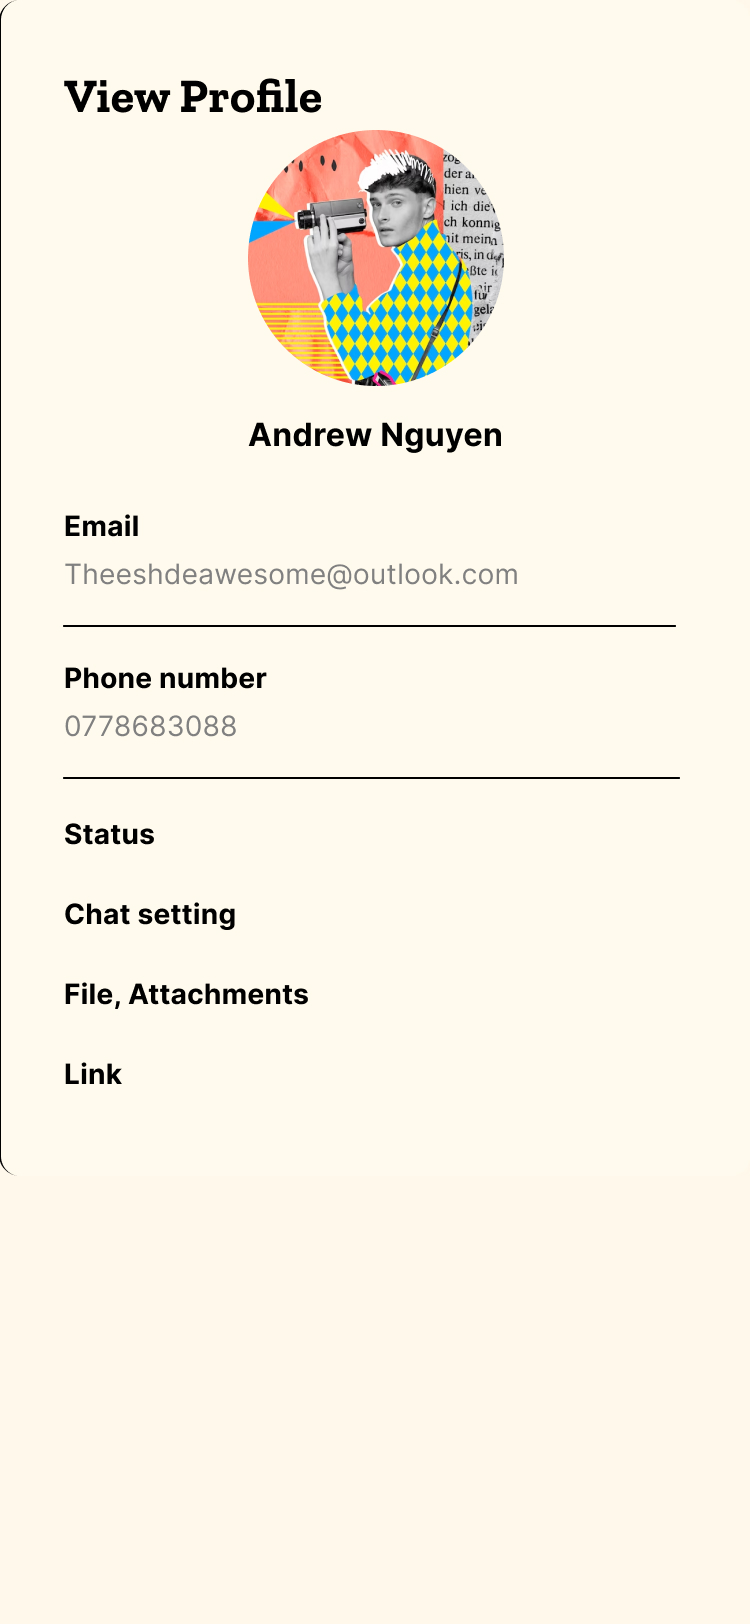
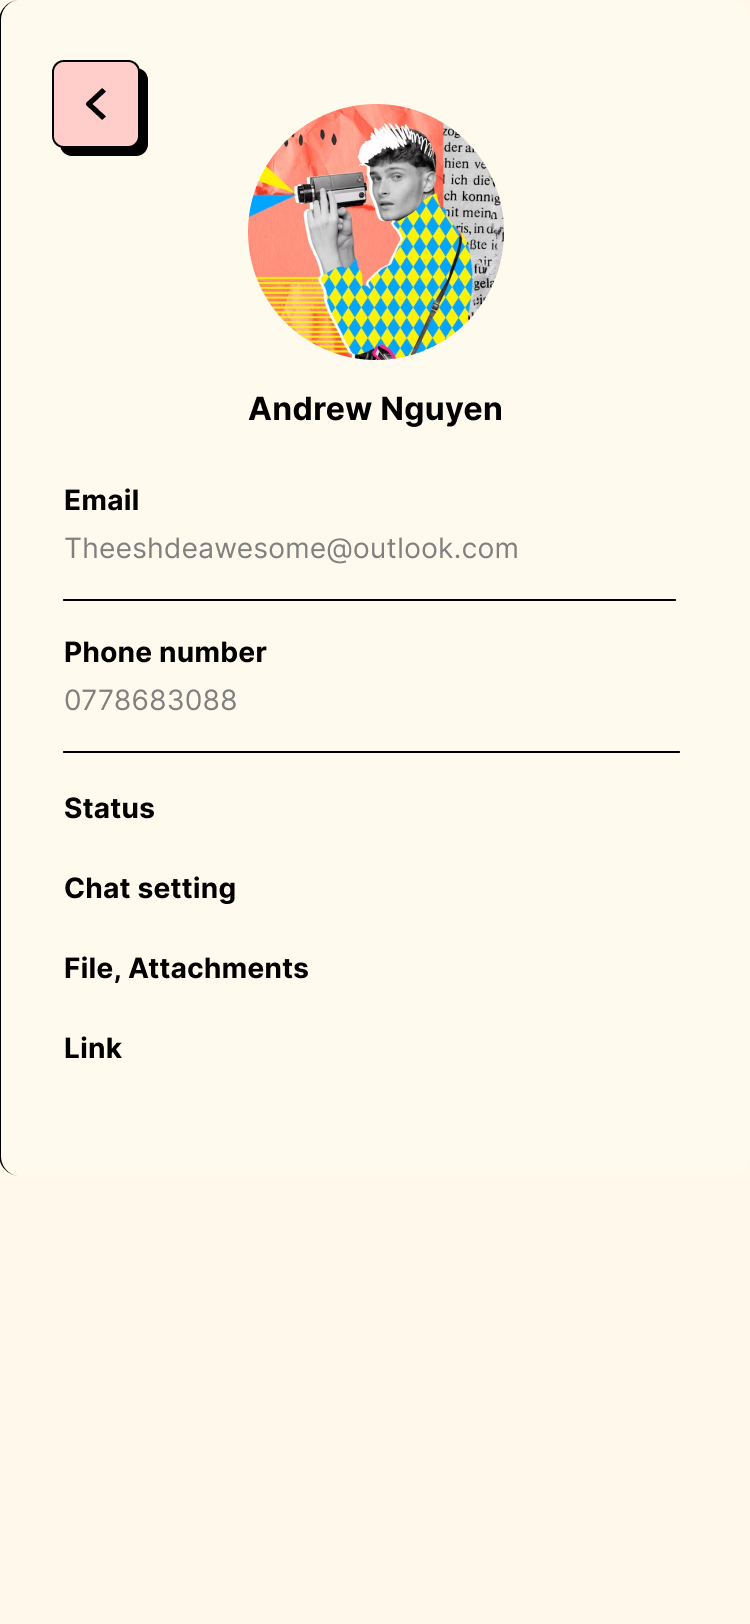
feat: add ProfileScreen and integrate into app routes; update plugin registrations for Firebase services

Changed region(s): [[0.0613, 0.2771, 0.7053, 0.6773], [0.2453, 0.0308, 0.6747, 0.2771], [0.0613, 0.0308, 0.2147, 0.1232]]

diff --git a/lib/features/profile/presentation/profile_screen.dart b/lib/features/profile/presentation/profile_screen.dart
@@ -1,0 +1,198 @@
+import 'package:flutter/material.dart';
+import 'package:chat_drop/core/theme/app_colors.dart';
+import 'package:chat_drop/core/theme/app_text_styles.dart';
+
+class ProfileScreen extends StatelessWidget {
+  const ProfileScreen({super.key});
+
+  @override
+  Widget build(BuildContext context) {
+    return Scaffold(
+      backgroundColor: AppColors.background,
+      appBar: AppBar(
+        backgroundColor: AppColors.background,
+        elevation: 0,
+        leading: IconButton(
+          icon: Container(
+            padding: const EdgeInsets.all(8),
+            decoration: BoxDecoration(
+              color: AppColors.primaryYellow,
+              borderRadius: BorderRadius.circular(8),
+              border: Border.all(color: AppColors.border, width: 2),
+            ),
+            child: const Icon(
+              Icons.arrow_back,
+              color: AppColors.textDark,
+              size: 20,
+            ),
+          ),
+          onPressed: () => Navigator.pop(context),
+        ),
+        title: const Text(
+          'View Profile',
+          style: TextStyle(
+            fontSize: 24,
+            fontWeight: FontWeight.bold,
+            color: AppColors.textDark,
+            fontFamily: "ZillaSlab",
+          ),
+        ),
+        centerTitle: false,
+      ),
+      body: SingleChildScrollView(
+        padding: const EdgeInsets.all(20),
+        child: Column(
+          children: [
+            const SizedBox(height: 20),
+
+            // Profile Picture
+            Container(
+              width: 160,
+              height: 160,
+              decoration: BoxDecoration(
+                color: AppColors.accentPink,
+                shape: BoxShape.circle,
+                border: Border.all(color: AppColors.border, width: 4),
+                boxShadow: [
+                  BoxShadow(
+                    color: AppColors.border,
+                    offset: const Offset(6, 6),
+                    blurRadius: 0,
+                    spreadRadius: 0,
+                  ),
+                ],
+              ),
+              child: ClipOval(
+                child: Container(
+                  decoration: const BoxDecoration(
+                    gradient: LinearGradient(
+                      colors: [
+                        Color(0xFFFF6B6B),
+                        Color(0xFFFFE66D),
+                        Color(0xFF4ECDC4),
+                        Color(0xFF45B7D1),
+                      ],
+                      begin: Alignment.topLeft,
+                      end: Alignment.bottomRight,
+                    ),
+                  ),
+                  child: const Center(
+                    child: Text('📷', style: TextStyle(fontSize: 60)),
+                  ),
+                ),
+              ),
+            ),
+
+            const SizedBox(height: 24),
+
+            // User Name
+            const Text(
+              'Andrew Nguyen',
+              style: TextStyle(
+                fontSize: 28,
+                fontWeight: FontWeight.bold,
+                color: AppColors.textDark,
+                fontFamily: "ZillaSlab",
+              ),
+            ),
+
+            const SizedBox(height: 40),
+
+            // Profile Information
+            _buildProfileSection('Email', 'Theeshdeawesome@outlook.com'),
+
+            _buildProfileSection('Phone number', '0778683088'),
+
+            _buildClickableSection('Status', ''),
+
+            _buildClickableSection('Chat setting', ''),
+
+            _buildClickableSection('File, Attachments', ''),
+
+            _buildClickableSection('Link', ''),
+          ],
+        ),
+      ),
+    );
+  }
+
+  Widget _buildProfileSection(String title, String value) {
+    return Container(
+      margin: const EdgeInsets.only(bottom: 32),
+      child: Column(
+        crossAxisAlignment: CrossAxisAlignment.start,
+        children: [
+          Text(
+            title,
+            style: const TextStyle(
+              fontSize: 18,
+              fontWeight: FontWeight.bold,
+              color: AppColors.textDark,
+              fontFamily: "ZillaSlab",
+            ),
+          ),
+          const SizedBox(height: 8),
+          if (value.isNotEmpty)
+            Text(
+              value,
+              style: const TextStyle(
+                fontSize: 16,
+                color: AppColors.textGrey,
+                fontFamily: "ZillaSlab",
+              ),
+            ),
+          const SizedBox(height: 12),
+          Container(height: 2, color: AppColors.border),
+        ],
+      ),
+    );
+  }
+
+  Widget _buildClickableSection(String title, String value) {
+    return Container(
+      margin: const EdgeInsets.only(bottom: 32),
+      child: InkWell(
+        onTap: () {
+          // Handle section tap
+          print('$title tapped');
+        },
+        child: Column(
+          crossAxisAlignment: CrossAxisAlignment.start,
+          children: [
+            Row(
+              mainAxisAlignment: MainAxisAlignment.spaceBetween,
+              children: [
+                Text(
+                  title,
+                  style: const TextStyle(
+                    fontSize: 18,
+                    fontWeight: FontWeight.bold,
+                    color: AppColors.textDark,
+                    fontFamily: "ZillaSlab",
+                  ),
+                ),
+                const Icon(
+                  Icons.chevron_right,
+                  color: AppColors.textGrey,
+                  size: 24,
+                ),
+              ],
+            ),
+            const SizedBox(height: 8),
+            if (value.isNotEmpty)
+              Text(
+                value,
+                style: const TextStyle(
+                  fontSize: 16,
+                  color: AppColors.textGrey,
+                  fontFamily: "ZillaSlab",
+                ),
+              ),
+            const SizedBox(height: 12),
+            Container(height: 2, color: AppColors.border),
+          ],
+        ),
+      ),
+    );
+  }
+}

diff --git a/lib/routes/app_routes.dart b/lib/routes/app_routes.dart
@@ -2,6 +2,7 @@ import 'package:chat_drop/features/auth/presentation/screens/qr_generator_screen
 import 'package:chat_drop/features/auth/presentation/screens/qr_scanner_screen.dart';
 import 'package:chat_drop/features/home/presentation/home_screen.dart';
 import 'package:chat_drop/features/chat/presentation/chat_screen.dart';
+import 'package:chat_drop/features/profile/presentation/profile_screen.dart';
 import 'package:flutter/material.dart';
 import 'package:flutter_riverpod/flutter_riverpod.dart';
 import 'package:go_router/go_router.dart';
@@ -57,6 +58,11 @@ final appRouterProvider = Provider<GoRouter>((ref) {
               state: state,
               child: const QrScannerScreen(),
             ),
+      ),
+      GoRoute(
+        path: '/profile', // Add profile route
+        name: 'profile',
+        builder: (context, state) => const ProfileScreen(),
       ),
     ],
   );

diff --git a/macos/Flutter/GeneratedPluginRegistrant.swift b/macos/Flutter/GeneratedPluginRegistrant.swift
@@ -5,6 +5,14 @@
 import FlutterMacOS
 import Foundation
 
+import cloud_firestore
+import firebase_auth
+import firebase_core
+import mobile_scanner
 
 func RegisterGeneratedPlugins(registry: FlutterPluginRegistry) {
+  FLTFirebaseFirestorePlugin.register(with: registry.registrar(forPlugin: "FLTFirebaseFirestorePlugin"))
+  FLTFirebaseAuthPlugin.register(with: registry.registrar(forPlugin: "FLTFirebaseAuthPlugin"))
+  FLTFirebaseCorePlugin.register(with: registry.registrar(forPlugin: "FLTFirebaseCorePlugin"))
+  MobileScannerPlugin.register(with: registry.registrar(forPlugin: "MobileScannerPlugin"))
 }

diff --git a/windows/flutter/generated_plugin_registrant.cc b/windows/flutter/generated_plugin_registrant.cc
@@ -6,6 +6,15 @@
 
 #include "generated_plugin_registrant.h"
 
+#include <cloud_firestore/cloud_firestore_plugin_c_api.h>
+#include <firebase_auth/firebase_auth_plugin_c_api.h>
+#include <firebase_core/firebase_core_plugin_c_api.h>
 
 void RegisterPlugins(flutter::PluginRegistry* registry) {
+  CloudFirestorePluginCApiRegisterWithRegistrar(
+      registry->GetRegistrarForPlugin("CloudFirestorePluginCApi"));
+  FirebaseAuthPluginCApiRegisterWithRegistrar(
+      registry->GetRegistrarForPlugin("FirebaseAuthPluginCApi"));
+  FirebaseCorePluginCApiRegisterWithRegistrar(
+      registry->GetRegistrarForPlugin("FirebaseCorePluginCApi"));
 }
